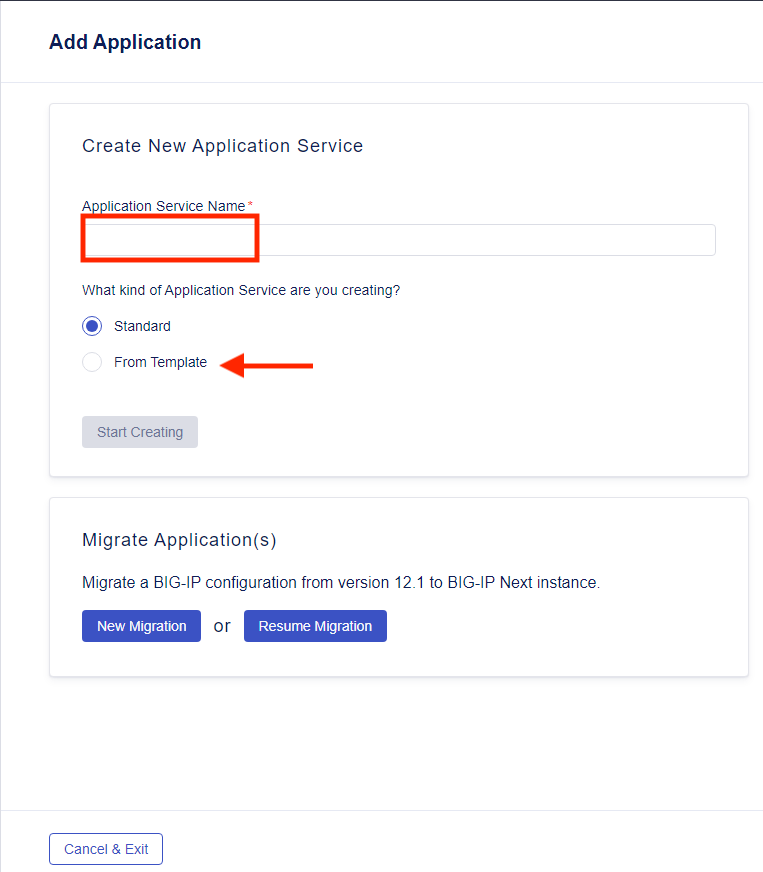
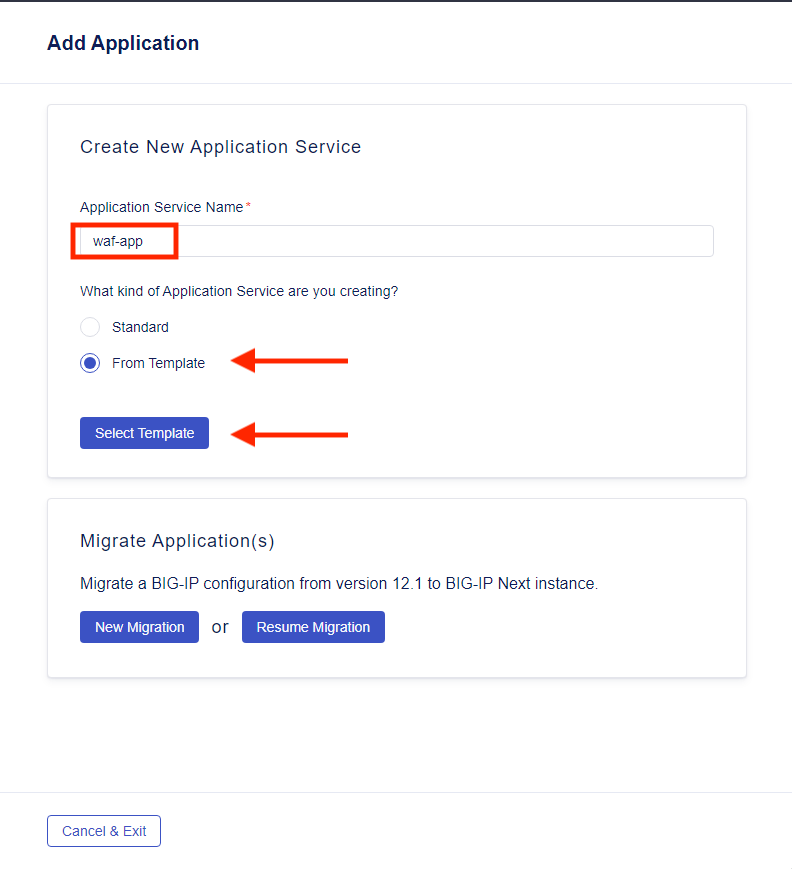
Module 5 kiwi updates - lang and graphic update

diff --git a/docs/class1/module5/lab1.rst b/docs/class1/module5/lab1.rst
@@ -38,6 +38,8 @@ Deploy a HTTPS load balancer with a WAF policy
 
 **3. Click on "Create"**
 
+   * Application Service Name is "waf-app."  Click on "From Template" and then "Select Template"
+  
  .. image:: ./pictures/create-application.png
 
 |
@@ -47,18 +49,20 @@ ose the "http" Template and click on "Start Creating"** (the http template is a 
  .. image:: ./pictures/application_template.png
 
 |
- .. image:: ./pictures/app_start_creating.png
 
-|
-
-**5. Click on the "Pools" and create the following Pool:**
+**5. Under the "waf-app," click on "Pools" and enter the following values in the template wizard as shown in the picture below**
   
+   .. image:: ./pictures/waf-app-virtual-addition.png
+
    * Pool Name: waf-app-pool
    * Service Port: 3000
    * Leave other options the same
- .. image:: ./pictures/waf-app-pool.png
 
-**6. Click on "Vritual Servers" and modify the following fields**
+
+**6. Under the waf-app," click on "Virtual Servers" and enter the following values in the template wizard for Properties as shown in the picture below and then click "Next."**
+
+   .. image:: ./pictures/waf-app-pool.png
+
 
    * Virtual Server Name: m-waf-app
    * Pool: Select "waf-app-pool" from the drop-down
@@ -67,6 +71,7 @@ ose the "http" Template and click on "Start Creating"** (the http template is a 
 **7. Press the edit button under "Protocols and Profiles" (adjacent to "SNAT" and "MIRRORING")**
 
    * Press "Enable HTTPS (Client-Side TLS)" and choose the "self_demo.f5.com" certificate
+ 
  .. image:: ./pictures/choose_cert.png
 
 **8. Select the edit button under "Security Policies" 
@@ -75,42 +80,39 @@ ose the "http" Template and click on "Start Creating"** (the http template is a 
    2. Click on "+ Create"
    3. Name:  waf-policy, leave all other items as default and click "Save" and then "Save" again.
 
-**8. Pressing "Review and Deploy" will take you to the "Deploy" page.  Select "Start Adding" and select big-ip-next-01.f5demo.com as the instance to deploy to and then click "+ Add to List."**
+**9. Pressing "Review and Deploy" will take you to the "Deploy" page.  Select "Start Adding" and select big-ip-next-01.f5demo.com as the instance to deploy to and then click "+ Add to List."**
 
    * The Deploy tab is the first place you'll actually define a virtual server.  The screens before were defining things like virtual server and pool names which will then be consistent as you deploy across infrastructure.  Imagine a global app that is deployed and a site is added.  The definition will already be in Central Manager and all you will need to define is a small subset of data (IP and pool members) and you will have a functional application that matches exactly the rest of your infrastructure.
  .. image:: ./pictures/
 
-**9. Add the IP of 10.1.10.203 to the "Virtual Address" box, and then click the down arrow and select "+ Pool Members." **
+**10. Add the IP of 10.1.10.203 to the "Virtual Address" box, and then click the down arrow and select "+ Pool Members." **
 
  .. image:: ./pictures/IP_for_VIP.png
 
-**10. Click on "+ Add Row" on the right and fill in "m_10.1.20.100" for the Name and "10.1.20.100" for the IP Address.  Click "Save"
+**11. Click on "+ Add Row" on the right and fill in "m_10.1.20.100" for the Name and "10.1.20.100" for the IP Address.  Click "Save"
 
  .. image:: ./pictures/pool_member_add.png
    
-**11. Click on "Validate All" to run the deployment validation.  When the validation is complete, you will see a icon and status next to the deployment, such as the green icon and "Validated" in the picture below**
+**12. Click on "Validate All" to run the deployment validation.  When the validation is complete, you will see a icon and status next to the deployment, such as the green icon and "Validated" in the picture below**
  
  .. image:: ./pictures/validate.png
 
-**12. Click on "View deployment validation results" to show the declaration**
+**13. Click on "View deployment validation results" to show the declaration**
 
  .. image:: ./pictures/declaration.png
 
 
  Click on "Exit" to go back to the previous screen.
 
-
-
- .. image:: ./pictures/success.png
   
-**13. Finally click on "Deploy" after which you will be prompted to confirm the deployment or cancel.  Click "Yes, Deploy" and you should see the application and the WAF policy deployed**
+**14. Finally click on "Deploy" after which you will be prompted to confirm the deployment or cancel.  Click "Yes, Deploy" and you should see the application and the WAF policy deployed**
 
  .. image:: ./pictures/successful_deployed.png
   
 
 
 
-**14. Let's validate the application through the UDF Firefox**
+**15. Let's validate the application through the UDF Firefox**
     
  On the lab components, select "Access" under the "Ubuntu Jump Host" and select "Firefox."  Within this proxied Firefox, go to https://10.1.10.203 and you should see the Juice Shop app.
 
@@ -130,7 +132,7 @@ ose the "http" Template and click on "Start Creating"** (the http template is a 
 
 |
 
-**15. You can see your block requested by visiting the WAF dashbaord**
+**16. You can see your block requested by visiting the WAF dashbaord**
 
 From Central Manager click on the top left menu to select the Security menu.
 
@@ -145,7 +147,7 @@ You can now view your "good" and "bad" requests
 
 .. note:: The "Lab Progress" app will also make "bad" requests in the background
 
-**16. (Optional)  WAF Event Logs**
+**17. (Optional)  WAF Event Logs**
 
 .. note:: This next exercise is optional (if you are doing this as part of internal F5 training and are part of the "Security" track, please skip in favor of your dedicated "Security" lab)
 
